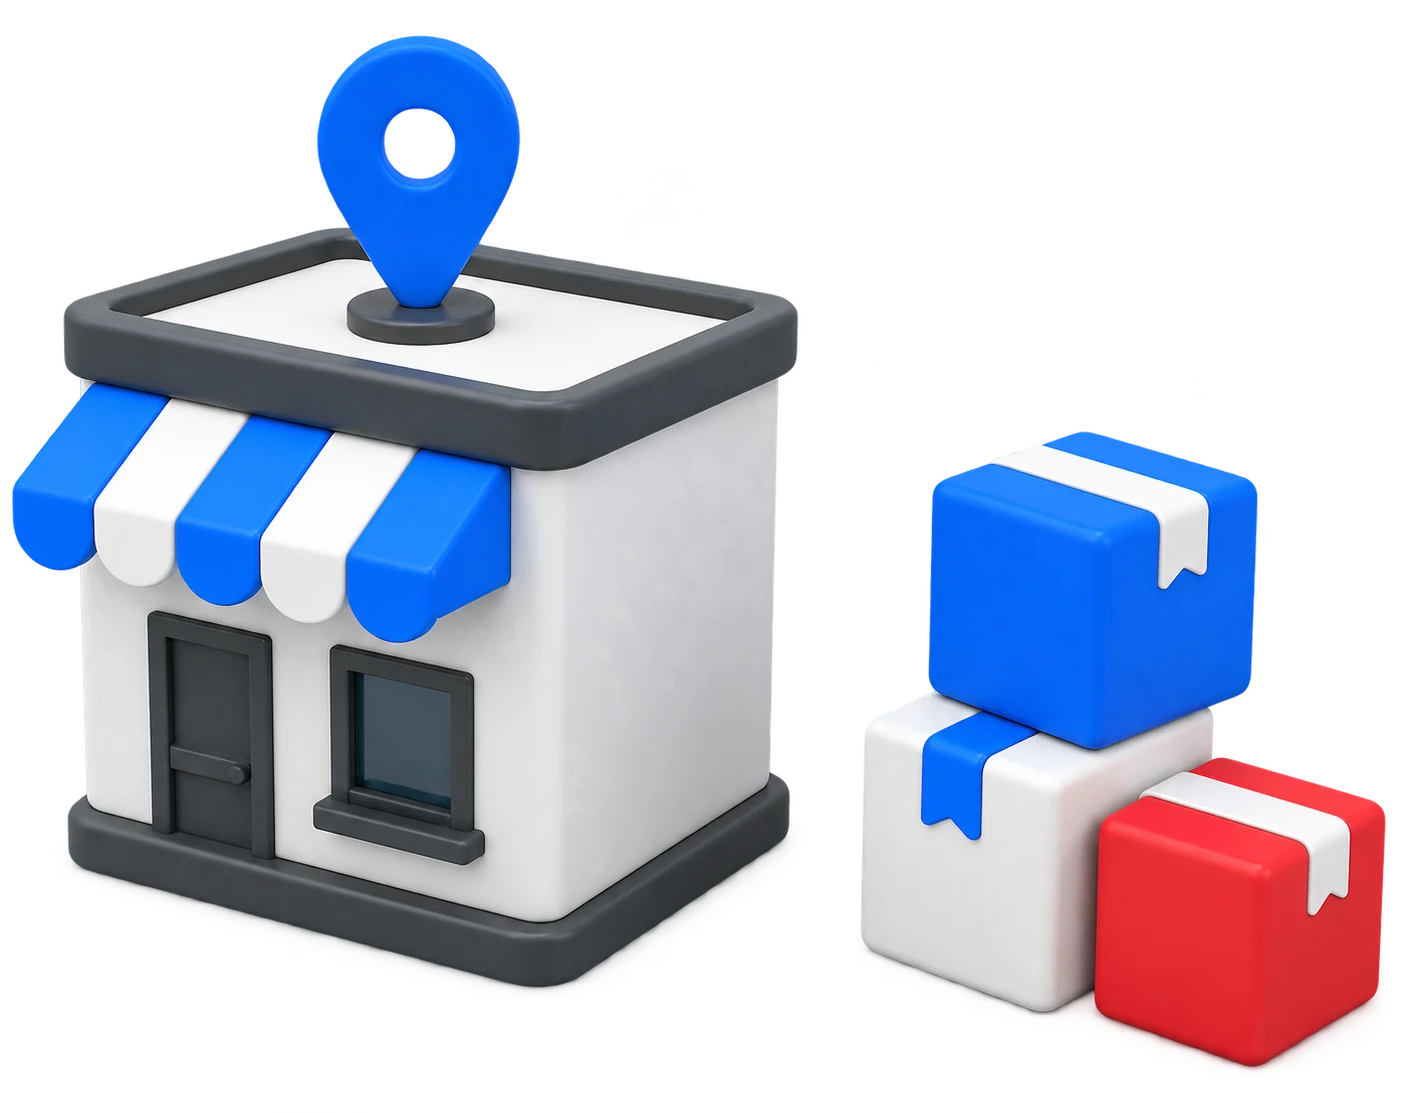
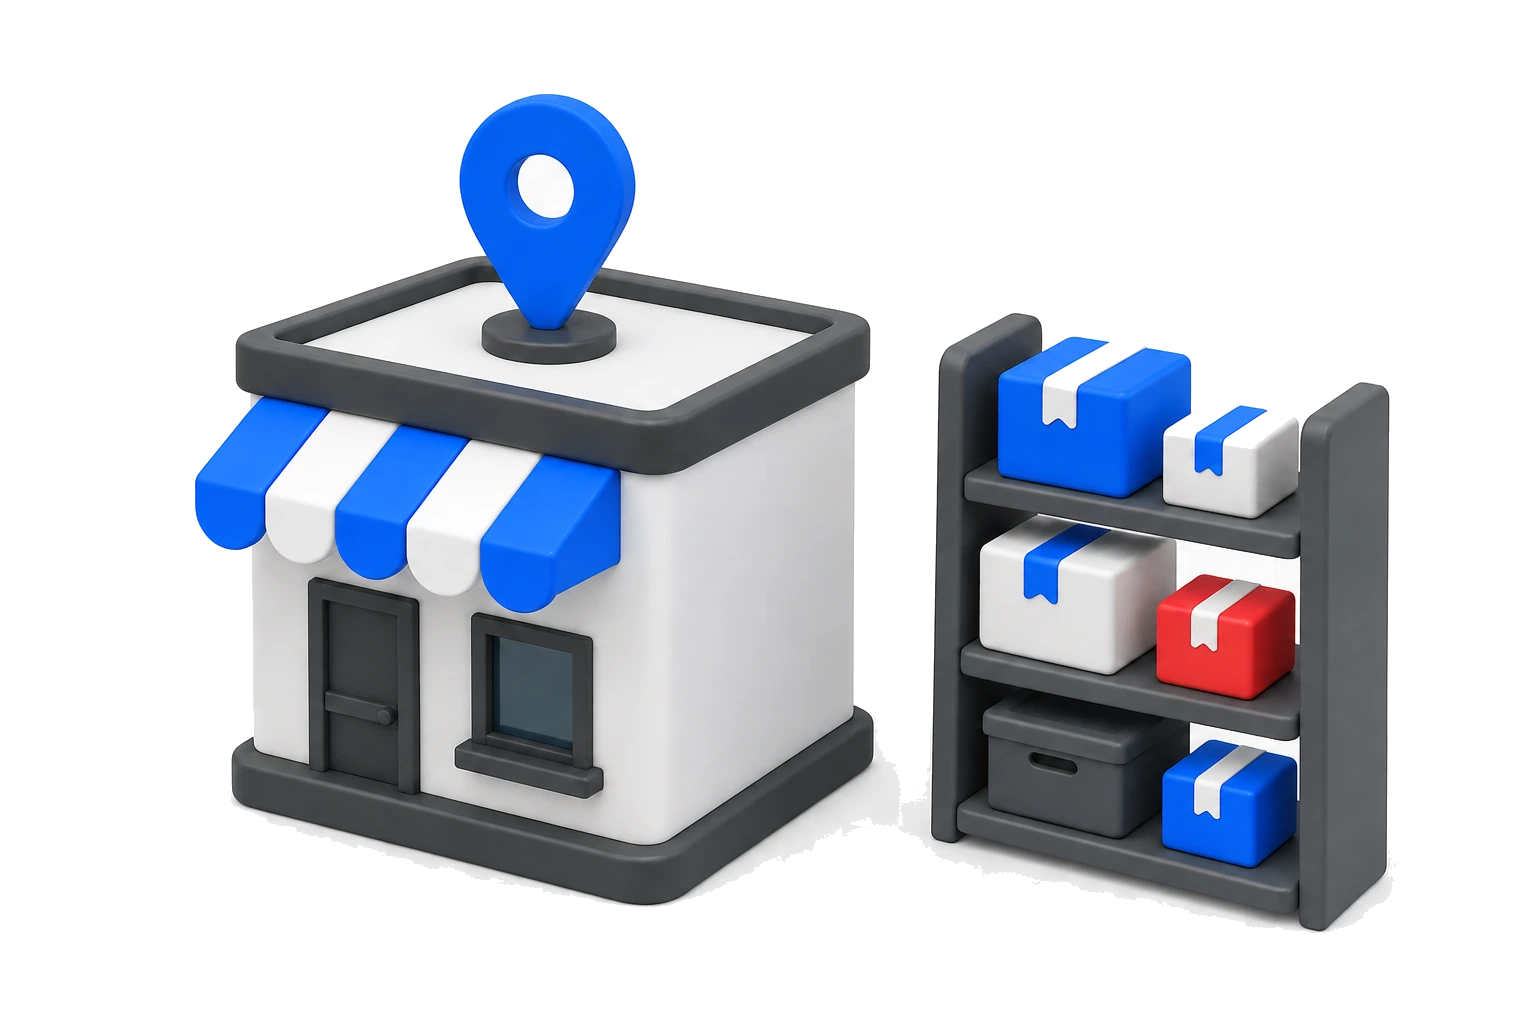
feat: add purchase and administration module visuals

diff --git a/lib/yuri-content.ts b/lib/yuri-content.ts
@@ -143,6 +143,7 @@ export const yuriModules: readonly YuriModule[] = [
     audiences: ["general", "farmacias", "abarrotes"],
     plan: "Profesional",
     icon: "shopping-basket",
+    visualAsset: "/assets/modulos-3d/compras.webp",
   },
   {
     id: "historial-compras",
@@ -152,6 +153,7 @@ export const yuriModules: readonly YuriModule[] = [
     audiences: ["general", "farmacias", "abarrotes"],
     plan: "Profesional",
     icon: "history",
+    visualAsset: "/assets/modulos-3d/historial-compras.webp",
   },
   {
     id: "ordenes-compra",
@@ -161,6 +163,7 @@ export const yuriModules: readonly YuriModule[] = [
     audiences: ["general", "farmacias", "abarrotes"],
     plan: "Escala",
     icon: "clipboard-list",
+    visualAsset: "/assets/modulos-3d/ordenes-compra.webp",
   },
   {
     id: "proveedores",
@@ -170,6 +173,7 @@ export const yuriModules: readonly YuriModule[] = [
     audiences: ["general", "farmacias", "abarrotes"],
     plan: "Profesional",
     icon: "truck",
+    visualAsset: "/assets/modulos-3d/proveedores.webp",
   },
   {
     id: "sucursales",
@@ -179,6 +183,7 @@ export const yuriModules: readonly YuriModule[] = [
     audiences: ["general", "farmacias", "abarrotes"],
     plan: "Profesional",
     icon: "map-pin",
+    visualAsset: "/assets/modulos-3d/sucursales.webp",
   },
   {
     id: "usuarios",
@@ -188,15 +193,7 @@ export const yuriModules: readonly YuriModule[] = [
     audiences: ["general", "farmacias", "abarrotes"],
     plan: "Profesional",
     icon: "user-round-cog",
-  },
-  {
-    id: "roles-permisos",
-    category: "Administración",
-    name: "Roles y permisos",
-    summary: "Entrega acceso con criterio para proteger la operación sin frenar al equipo.",
-    audiences: ["general", "farmacias", "abarrotes"],
-    plan: "Profesional",
-    icon: "shield-check",
+    visualAsset: "/assets/modulos-3d/usuarios.webp",
   },
   {
     id: "cajas",
@@ -206,6 +203,7 @@ export const yuriModules: readonly YuriModule[] = [
     audiences: ["general", "farmacias", "abarrotes"],
     plan: "Esencial",
     icon: "cash-register",
+    visualAsset: "/assets/modulos-3d/cajas.webp",
   },
   {
     id: "personal",
@@ -215,6 +213,7 @@ export const yuriModules: readonly YuriModule[] = [
     audiences: ["general", "farmacias", "abarrotes"],
     plan: "Escala",
     icon: "badge-check",
+    visualAsset: "/assets/modulos-3d/personal.webp",
   },
   {
     id: "vacaciones",
@@ -224,6 +223,7 @@ export const yuriModules: readonly YuriModule[] = [
     audiences: ["general", "farmacias", "abarrotes"],
     plan: "Escala",
     icon: "calendar-days",
+    visualAsset: "/assets/modulos-3d/vacaciones.webp",
   },
   {
     id: "comisiones",
@@ -233,6 +233,7 @@ export const yuriModules: readonly YuriModule[] = [
     audiences: ["general", "farmacias", "abarrotes"],
     plan: "Escala",
     icon: "percent",
+    visualAsset: "/assets/modulos-3d/comisiones.webp",
   },
   {
     id: "anuncios",
@@ -242,6 +243,17 @@ export const yuriModules: readonly YuriModule[] = [
     audiences: ["general", "farmacias", "abarrotes"],
     plan: "Escala",
     icon: "megaphone",
+    visualAsset: "/assets/modulos-3d/anuncios.webp",
+  },
+  {
+    id: "roles-permisos",
+    category: "Administración",
+    name: "Roles y permisos",
+    summary: "Entrega acceso con criterio para proteger la operación sin frenar al equipo.",
+    audiences: ["general", "farmacias", "abarrotes"],
+    plan: "Profesional",
+    icon: "shield-check",
+    visualAsset: "/assets/difference-yuri/roles-permisos.webp",
   },
   {
     id: "cortes-caja",
